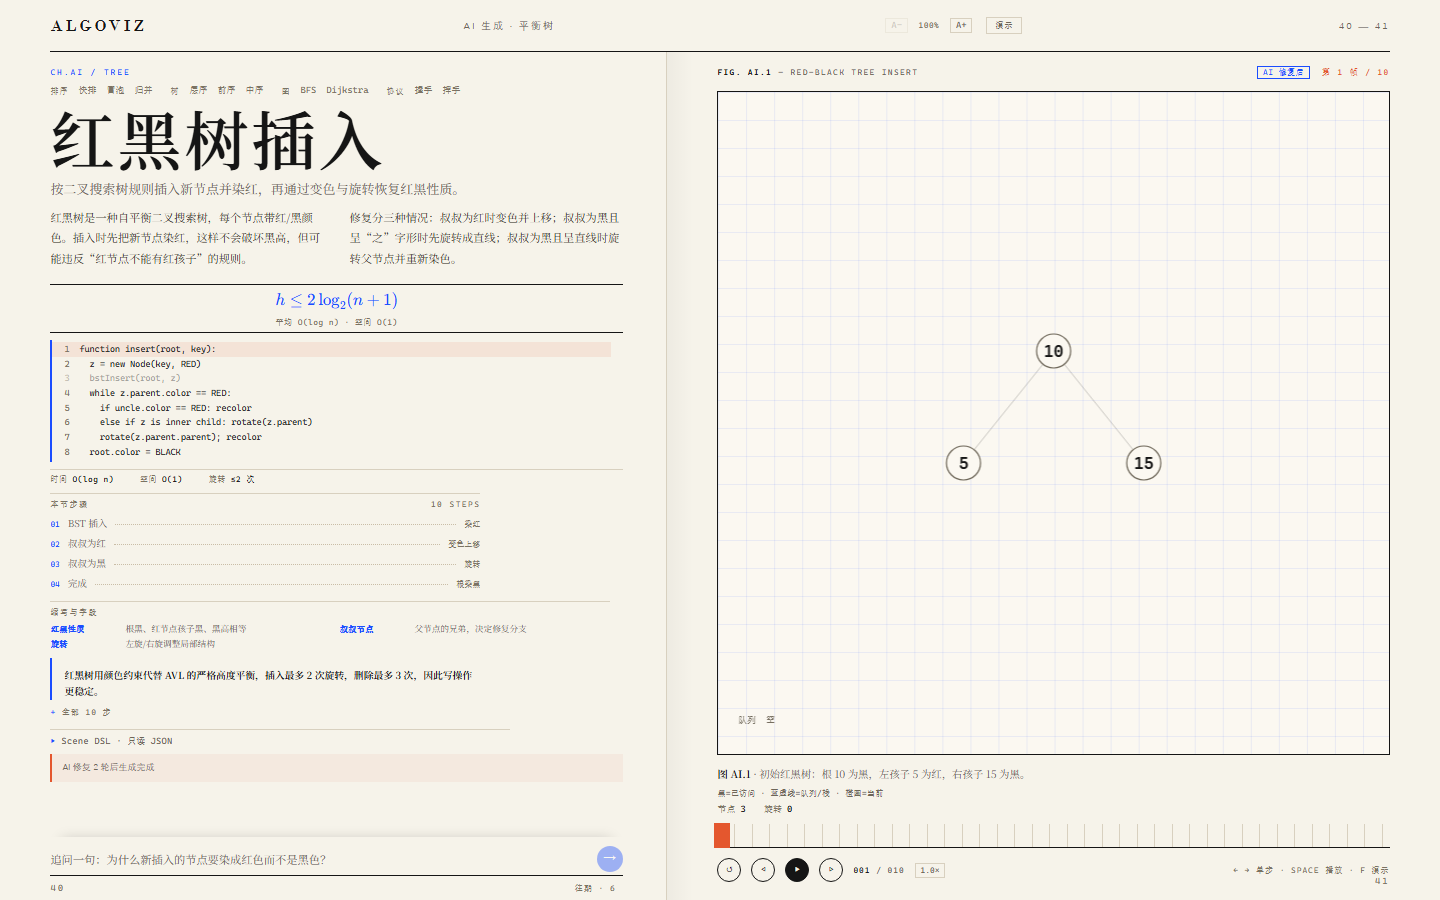
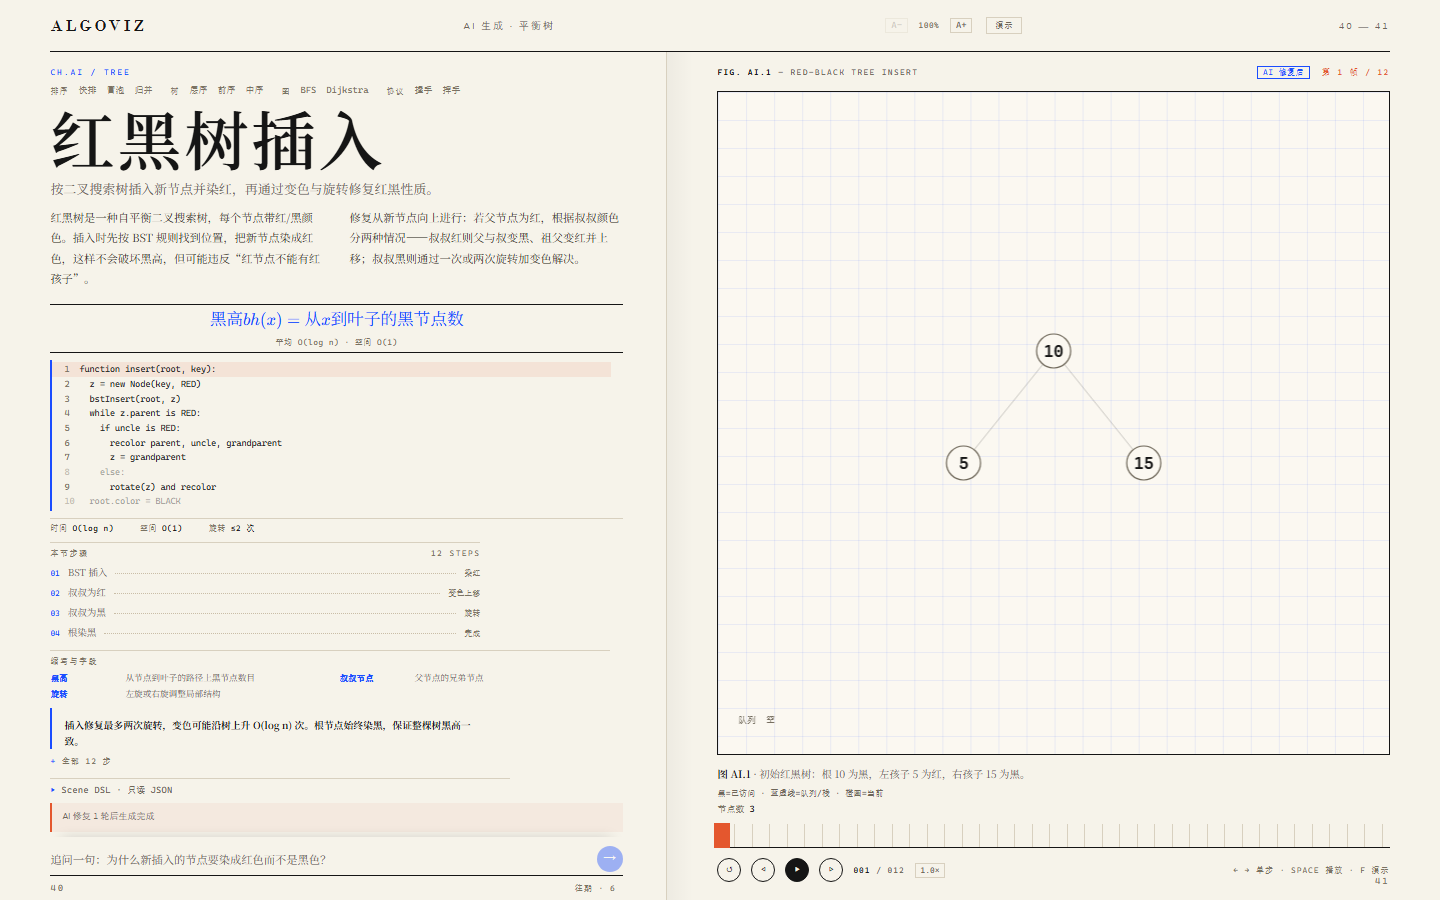
docs: record tree-rotation repair and 41-frame sort output

Changed region(s): [[0.0312, 0.1867, 0.4375, 0.9333], [0.2812, 0.56, 0.375, 0.7156], [0.2188, 0.6844, 0.25, 0.7156]]

diff --git a/docs/01-项目设计书.md b/docs/01-项目设计书.md
@@ -53,7 +53,7 @@
    - 图：BFS / Dijkstra（节点图版）
    - 协议：TCP 三次握手 / 四次挥手（时序图版，可开丢包）
 5. **规则路由**：Prompt 命中关键词（快排 / 二叉树 / 握手…）直接走内置引擎，0 延迟；未命中走 AI。
-6. **AI 生成**：任意主题 → Scene DSL；流式状态；Zod + 业务校验；失败自动修复 ≤2 轮；最终失败给降级提示。
+6. **AI 生成**：任意主题 → Scene DSL；流式状态；Zod + 业务校验；失败自动修复 ≤3 轮；最终失败给降级提示。
 7. **标尺时间轴**：右页底部 38 格刻度 + 朱砂当前帧；点击/拖拽跳帧；播放 / 暂停 / 单步 / 倍速 / 键盘（空格、←、→、Home、End）。
 8. **讲义联动**：当前步高亮伪代码行、正文对应段落、复杂度数字；右页图注只留一句「当前步」。
 9. **参数注记**：左页「参数」表（n / pivot / 转场 / 速度）；内置场景即时重算；AI 场景重新生成（带缓存）。
@@ -98,7 +98,7 @@ Prompt ──► 规则路由（关键词/参数正则）
 
 ### D4. 校验-修复闭环，失败降级不装死
 - Zod 结构校验 + 业务规则（引用完整性、步数上限、数值范围）。
-- 失败把「错误列表 + 原输出」回喂模型修复，最多 2 轮，过程写进 trace。
+- 失败把「错误列表 + 原输出」回喂模型修复，最多 3 轮，过程写进 trace。
 - 仍失败：提示原因 + 推荐相近内置场景 + 保留原始输出可复制，不静默卡死。
 
 ### D5. 无后端：本地持久化 + dev/preview 代理隐藏 Key
@@ -402,7 +402,7 @@ interface SequenceState {
 - 归并可视化：`ArrayState` 增加 `aux`（左右辅助段、i/j 来源指针、目标写入位），渲染器在画布底部画出两行来源值；`locked` 改为渐进式已排序区间，合并子段完成后变蓝。
 - 交互修复：`Space` 不再劫持按钮；标尺支持 Pointer 拖拽并实时跳帧；播放支持 0.5× 与 `durationMs`，到最后一帧可从头重播；地址栏写回当前 `step`；无步骤的伪代码行禁用；短屏步骤目录不再被隐藏，左页顺序调整为「事实 → 本节步骤 → 术语 → 参数」。
 - 投影字号：`app.big-type` + `--type-scale` 四档（100 / 112 / 126 / 142%），讲义文字与图注同步放大；`Figure` 把同一比例传给 array/tree/graph/sequence 四个渲染器，节点、边权、泳道与队列标签一起增大（窄屏/大数组自动封顶，避免互相压字）。归并最后一帧用 `auxMix` 插值辅助区高度并让上一帧辅助段淡出，柱子从 82px 底部空间平滑回到 44px，不再跳变。
-- AI 生成已接通：`src/lib/ai/prompt.ts`（system + 8 帧 few-shot）、`client.ts`（SSE 解析）、`generate.ts`（JSON 提取 → validateScene → 质量线 → ≤2 轮修复）。App 增加 AI 场景态、流式 trace、停止、来源标注；AI 场景隐藏内置参数，不写往期/URL。
+- AI 生成已接通：`src/lib/ai/prompt.ts`（system + 8 帧 few-shot）、`client.ts`（SSE 解析）、`generate.ts`（JSON 提取 → validateScene → 质量线 → ≤3 轮修复）。App 增加 AI 场景态、流式 trace、停止、来源标注；AI 场景隐藏内置参数，不写往期/URL。树校验允许旋转/新增节点，只要求旧节点不消失、每帧根唯一/无环。
 - 业务校验独立于 Zod：`validateScene()` 先跑 Schema，再跑 `inspectScene()`；失败抛 `SceneIssueError`，`issues: { path, message }[]` 可直接回喂模型修复。新增 `dist` 引用与重复标注检查。
 - 已接入 10 个内置场景：3 排序（快排 / 冒泡 / 归并）+ 3 遍历（层序 / 前序 / 中序）+ 2 图（BFS / Dijkstra）+ 2 时序（TCP 握手 / 挥手）；规则路由同步覆盖「图 + BFS / 广度」「Dijkstra / 最短路」「握手 / SYN」「挥手 / FIN」。
 - `Scene` 增加 `params`（int / enum）与 `Step.metrics`（≤3 项过程量），`outline` 每项带 `step` 下标：参数表、过程量、步骤目录都由数据驱动，渲染器不写死。
@@ -410,7 +410,7 @@ interface SequenceState {
 - 图版渲染：`figure/graph.ts` 环形布局 + 二次曲线边 + 边权标注 + 最短路高亮；`figure/sequence.ts` 泳道 + 消息箭头 + 丢包虚线 + 底部状态注记。两者共用 `figure/strip.ts` 的游标条。
 - 左页公式用 KaTeX 渲染（`components/Formula.tsx`），`Scene.formula` 直接存 LaTeX；`components/JsonDrawer.tsx` 提供只读 DSL 抽屉，不引入 Monaco。
 - 参数注记（§6.4）已实现，见该节的 v0.4 / v0.5 说明；转场时长仍由播放器统一控制，不放进参数表。
-- 测试从 49 增至 86：图遍历顺序、Dijkstra 两种起点的距离与路径、TCP 消息条数与丢包重传、协议缩写与 seq/ack 字段注释、归并辅助段、AI few-shot 校验 / JSON 提取 / 修复轮 / 质量线、`dist` 引用校验、新路由关键词全部覆盖。
+- 测试从 49 增至 87：图遍历顺序、Dijkstra 两种起点的距离与路径、TCP 消息条数与丢包重传、协议缩写与 seq/ack 字段注释、归并辅助段、AI few-shot 校验 / JSON 提取 / 修复轮 / 质量线、树旋转/新增节点、`dist` 引用校验、新路由关键词全部覆盖。
 
 ## 10. AI 生成流水线
 
@@ -422,8 +422,8 @@ interface SequenceState {
 3. **请求**：`/api/llm`（Vite dev/preview 中间件），`stream: true`，`temperature: 0.15`，`max_tokens: 8000`；Key 只在服务端。
 4. **流式展示**：`src/lib/ai/client.ts` 解析 SSE `data:` 块并逐块回调；页眉显示阶段，左页 trace 显示已收字数，可「停止」。
 5. **解析**：剥离 ```json 围栏 → 截取首尾大括号 → `JSON.parse` → `validateScene()`（Zod + 根部唯一/悬空边/泳道引用等业务规则）。
-6. **质量线**：array / tree / graph 至少 8 帧、sequence 至少 4 帧；最后一帧必须 `doneAll`；`codeLine` 必须在 `1..code.length`。不达标转修复。
-7. **修复**：把 `{path, message}[]` 回喂，最多 2 轮；每轮重新流式生成并校验；成功标注「AI 修复后」，失败保留原始 JSON 供排查。
+6. **质量线与修复**：排序至少 24 帧且 8 个元素；树/图至少 12 帧；查找至少 8 帧；时序至少 5 帧。最后一帧必须 `doneAll`；`codeLine` 必须在 `1..code.length`。不达标或结构错误转修复，最多 3 轮。
+7. **修复**：把 `{path, message}[]` 回喂，最多 3 轮；每轮重新流式生成并校验；成功标注「AI 修复后」，失败保留原始 JSON 供排查。
 8. **降级**：失败时保留当前内置场景，页眉/notice 显示错误摘要，trace 保留原始输出；不写往期、不写 URL（AI 场景是本次会话）。
 9. **待补**：生成缓存（hash → localStorage）、完整历史/分享、导出（11/15）。成本控制：单次数组/图场景约 4k–8k token，演示 3–5 次。
 
@@ -462,7 +462,7 @@ interface SequenceState {
 ## 14. 质量保障
 
 - **类型**：`strict: true`，`noUncheckedIndexedAccess`，禁止 `any`（除第三方边界）。
-- **单测**（Vitest，86 例）：
+- **单测**（Vitest，87 例）：
   - 快排/冒泡/归并：终态有序、步骤数 > 0、每步状态合法；归并的左右辅助段、指针与目标位在范围内；
   - 树遍历：层序/前序/中序顺序正确；
   - 图：BFS 的访问顺序与两种起点、Dijkstra 两种起点的距离与路径；
@@ -496,7 +496,7 @@ interface SequenceState {
 - [ ] 四类导出成功，GIF ≤ 15MB 且可播放，Markdown 内容完整。
 - [x] 断网 + 无 Key 时，内置引擎与历史场景仍可演示。
 - [ ] `npm ci && npm run dev` 在干净目录 10 分钟内跑通（README 步骤）。
-- [x] `npm run test` 全绿（86 例），`tsc --noEmit` 无错，控制台无报错。
+- [x] `npm run test` 全绿（87 例），`tsc --noEmit` 无错，控制台无报错。
 - [ ] 首屏 LCP < 2s（本地），切步无可感知卡顿。
 - [ ] 移动端 390px 单页可读、可播放（不重叠、不丢功能）。
 
@@ -506,7 +506,7 @@ interface SequenceState {
 |---|---|---|
 | 依赖安装失败（网络） | 中 | 项目级 `.npmrc` 用 npmmirror；缓存放工作区；失败重试；锁定版本 |
 | 新版本兼容问题（Vite 8 / TS 7 / React 19） | 中 | 先跑最小脚手架验证；不行回退 Vite 7 / TS 5，功能不受影响 |
-| LLM 输出不合规 | 高 | Schema 约束 + 修复 ≤2 轮 + 降级；测试集覆盖 |
+| LLM 输出不合规 | 高 | Schema 约束 + 修复 ≤3 轮 + 降级；测试集覆盖 |
 | 生成太慢 | 中 | 小规模约束 + 缓存 + 规则路由；超时 45s 可取消 |
 | GIF 导出失败 | 中 | 本地 worker 内置；失败降级 PNG；早期 spike 验证 |
 | Monaco 体积/加载慢 | 中 | 已改为只读 `<pre>` 抽屉，不装 Monaco；编辑需求延后 |

diff --git a/docs/00-操作流程.md b/docs/00-操作流程.md
@@ -17,7 +17,7 @@
 | Git 身份 | ✅ 已配置 | 本仓库使用 `Hyas-spec` + GitHub noreply 邮箱 |
 | GitHub 仓库 | ✅ 已建 | [Hyas-spec/AlgoViz-Studio](https://github.com/Hyas-spec/AlgoViz-Studio)，Public，HTTPS + GCM |
 | LLM Key | ✅ 已填 | 用户 11/13 18:00 前放入 `.env.local`；`/api/llm/health` 返回 `keyConfigured: true`，非流式与 SSE 均已验证 |
-| AI 生成 | ✅ 已提前接通 | 非内置主题 → `/api/llm` SSE 流式 → JSON 解析 → Zod/业务/质量线 → 最多 2 轮修复 → AI 场景上屏；流式 trace、停止、来源标注 |
+| AI 生成 | ✅ 已提前接通 | 非内置主题 → `/api/llm` SSE 流式 → JSON 解析 → Zod/业务/质量线 → 最多 3 轮修复 → AI 场景上屏；流式 trace、停止、来源标注 |
 | 报名 / 缴费 | ✅ 已确认 | 省赛 **B 组 · 个人 · 已缴费**（用户 11/12 口述，最终以官网个人中心为准） |
 | 视觉方向 | ✅ 已定稿 | 「讲义双页 The Spread」：左页讲解、右页图版；2026-11-12 用户确认；基线 `mockups/concept-spread.png` |
 | 内置场景 | ✅ 10 个 | 3 排序 + 3 树遍历 + 2 图 + 2 时序；`/?scene=quick\|bubble\|merge\|levelorder\|preorder\|inorder\|bfs\|dijkstra\|handshake\|wave`，`&step=n` 直达帧 |
@@ -73,7 +73,7 @@ git remote add origin https://github.com/<用户名>/algoviz-studio.git
 |---|---|---|---|
 | **11/12 今天** | ✅ 已完成：设计文档、双页版式定稿、仓库、脚手架、快排首屏、响应式、Prompt 00/01 | 给 GitHub 信息、建仓库、确认 Key 与报名状态 | 本机可打开双页；仓库有首个提交 |
 | **11/13** | ✅ 已完成（提前一天）：Scene DSL v2 四态联合 + 业务校验、树图版与层序/前序/中序、6 个场景、单测从 25 增至 49、左页独立滚动与页码修复；晚间补齐参数注记、过程量、点伪代码/大纲跳帧、全部步骤、`F` 板书模式、往期讲义、对比度与读屏描述 | 试玩 10 分钟，指出不顺手的地方 | 三种排序 + 三种遍历可播放；改参数即时重算 |
-| **11/14** | ✅ 已完成：图图版（环形布局 + BFS / Dijkstra）、时序图版（TCP 三次握手 / 四次挥手，可开丢包重传）、协议缩写与字段注释（SYN / ACK / FIN / TIME-WAIT / 2MSL / seq / ack 等 10 条术语表）、KaTeX 公式、Scene DSL 只读 JSON 抽屉；场景状态栏与规则路由同步，测试 49 → 86。晚间按学生 / 老师双视角走查，修了键盘 Space、标尺拖拽、归并辅助段与收尾过渡、手机 n=16 裁切、短屏步骤目录、四档投影字号（含画布标签）、播放节奏与 URL 当前帧等问题；并提前接通 AI 生成（system prompt + SSE 流式 + 校验/修复） | 试玩四类场景（数组 / 树 / 图 / 时序），确认握手与挥手的文案口吻；试 5 条 AI 主题 | 10 个内置场景全部可读可播 ✅；AI 已生成插入排序 / Prim / 二分查找 / UDP / 红黑树（修复 2 轮）✅ |
+| **11/14** | ✅ 已完成：图图版（环形布局 + BFS / Dijkstra）、时序图版（TCP 三次握手 / 四次挥手，可开丢包重传）、协议缩写与字段注释（SYN / ACK / FIN / TIME-WAIT / 2MSL / seq / ack 等 10 条术语表）、KaTeX 公式、Scene DSL 只读 JSON 抽屉；场景状态栏与规则路由同步，测试 49 → 87。晚间按学生 / 老师双视角走查，修了键盘 Space、标尺拖拽、归并辅助段与收尾过渡、手机 n=16 裁切、短屏步骤目录、四档投影字号（含画布标签）、播放节奏与 URL 当前帧等问题；并提前接通 AI 生成（system prompt + SSE 流式 + 校验/修复，树支持旋转/新增节点） | 试玩四类场景（数组 / 树 / 图 / 时序），确认握手与挥手的文案口吻；试 5 条 AI 主题 | 10 个内置场景全部可读可播 ✅；AI 已生成插入排序（41 帧）/ Prim / 二分查找 / UDP / 红黑树（修复 1 轮）✅ |
 | **11/15** | 🚧 AI 生成已提前完成（Prompt、流式、校验修复、来源标注）；待做缓存、四类导出、完整历史分享 | 提供 Key、一起测 10 条 Prompt | 8/10 生成成功；导出全部可用（当前 0 个导出） |
 | **11/16** | 版式打磨（1440/1280/移动单页）、三态、单测、README、性能 | 在**另一台机器/干净目录**按 README 复现一遍 | 10 分钟复现成功；测试全绿 |
 | **11/17** | 视频脚本、技术文档初稿、Prompt 快照整理 | 录屏 5–8 分钟（含 2 分钟 AI 协同）、审文档 | 1080p 视频 + PDF ≤30 页 |

diff --git a/README.md b/README.md
@@ -23,7 +23,7 @@
 - ✅ 图例：四类图版在右页图注下方直接标注「黑 = 已访问 / 蓝虚线 = 待访问 / 橙圈 = 当前 / 虚线 = 丢包」等含义
 - ✅ 可访问性与移动端：Space / Enter 不再被全局快捷键劫持；标尺可实时拖拽；0.5× 慢放；播完可从头重播；手机数组最大规模不裁切，往期抽屉可用
 - ✅ KaTeX 公式与「Scene DSL · 只读 JSON」抽屉
-- ✅ AI 生成：非内置主题走 `/api/llm` SSE 流式生成 → JSON 解析 → Zod/业务校验 → 最多 2 轮自动修复 → 右页上屏；左侧显示流式 trace，可停止，来源标注「AI 生成 / AI 修复后」
+- ✅ AI 生成：非内置主题走 `/api/llm` SSE 流式生成 → JSON 解析 → Zod/业务校验 → 质量线（排序至少 24 帧、8 个元素）→ 最多 3 轮自动修复 → 右页上屏；左侧显示流式 trace，可停止，来源标注「AI 生成 / AI 修复后」
 - ⬜ 待接入：导出、完整历史与分享（AI 场景目前是本次会话，刷新回到内置场景）
 
 ## 场景
@@ -75,12 +75,12 @@
 - 例如「插入排序」「Prim 最小生成树」「二分查找」「UDP 为什么不可靠」。
 - 生成时页眉显示阶段，左页底部显示流式 trace、已收到字数与「停止」按钮。
 - 输出先经过 `JSON.parse`（自动剥离 ```json 围栏）→ Zod 结构校验 → 业务规则 → 质量线（array/tree/graph 至少 8 帧、最后一帧 `doneAll`、`codeLine` 范围）。
-- 校验失败会把问题清单回喂模型，最多修复 2 轮；成功后右页上方标注「AI 生成」或「AI 修复后」。
+- 校验失败会把问题清单回喂模型，最多修复 3 轮；成功后右页上方标注「AI 生成」或「AI 修复后」。
 - AI 场景暂不写往期、不写 URL、刷新回到内置场景；导出/历史会后续接入。
 
 ![AI 生成的 Prim 最小生成树](mockups/v5-ai-prim.png)
 
-修复路径也真实跑过：红黑树插入第一次输出未过质量线，经过 2 轮修复后上屏，来源标注为「AI 修复后」。
+修复路径也真实跑过：红黑树插入第一次输出因父节点被旋转判为不合法，经过 1 轮修复后上屏，来源标注为「AI 修复后」。
 
 ![AI 修复后的红黑树](mockups/v5-ai-repaired.png)
 
@@ -116,7 +116,7 @@ npm run dev
 ```
 
 验收：双页可见；播放/单步/标尺可用；十种场景都能播放；`<780px` 自动单列且图版在前。填了 Key 后，输入「插入排序」应能看到流式生成并上屏。
-`npm test` 应全绿（86 个用例，覆盖三种排序、三种遍历、BFS/Dijkstra、TCP 握手/挥手与丢包、协议缩写与 seq/ack 字段注释、归并辅助段、AI 解析/修复/质量线、参数与步数上限、四态校验器与规则路由）。
+`npm test` 应全绿（87 个用例，覆盖三种排序、三种遍历、BFS/Dijkstra、TCP 握手/挥手与丢包、协议缩写与 seq/ack 字段注释、归并辅助段、AI 解析/修复/质量线、树旋转/新增节点、参数与步数上限、四态校验器与规则路由）。
 
 常见问题：
 
